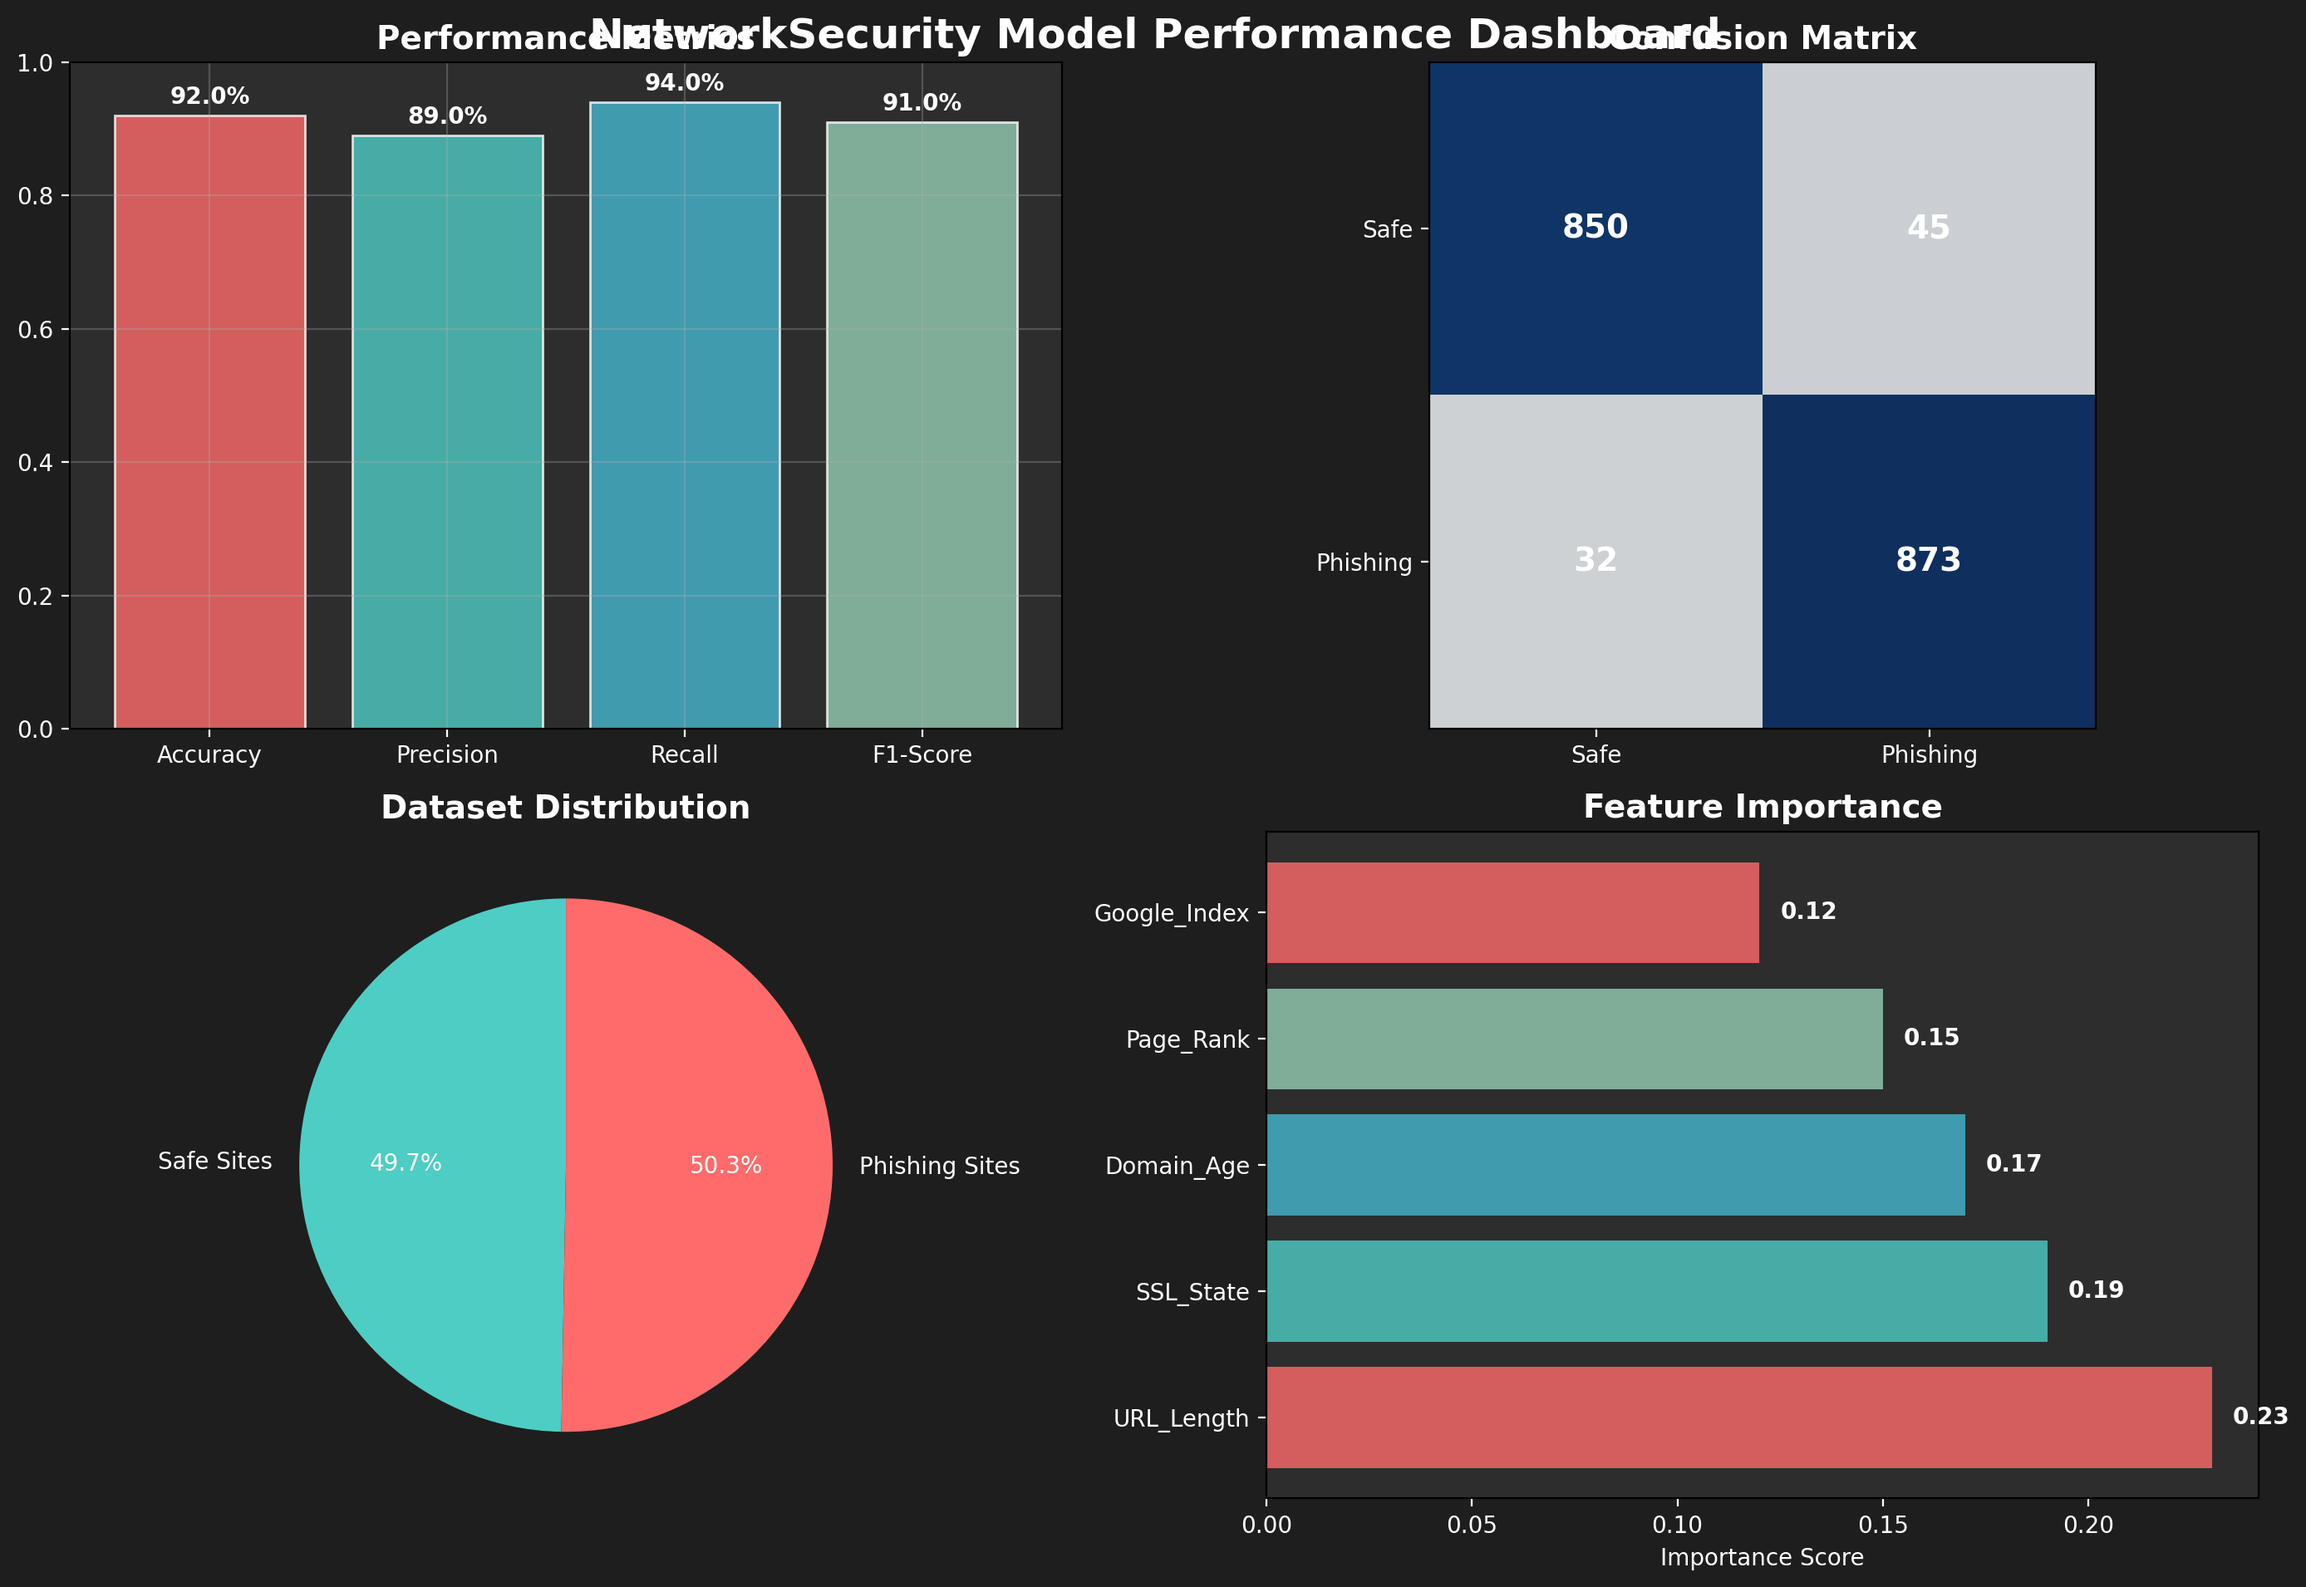
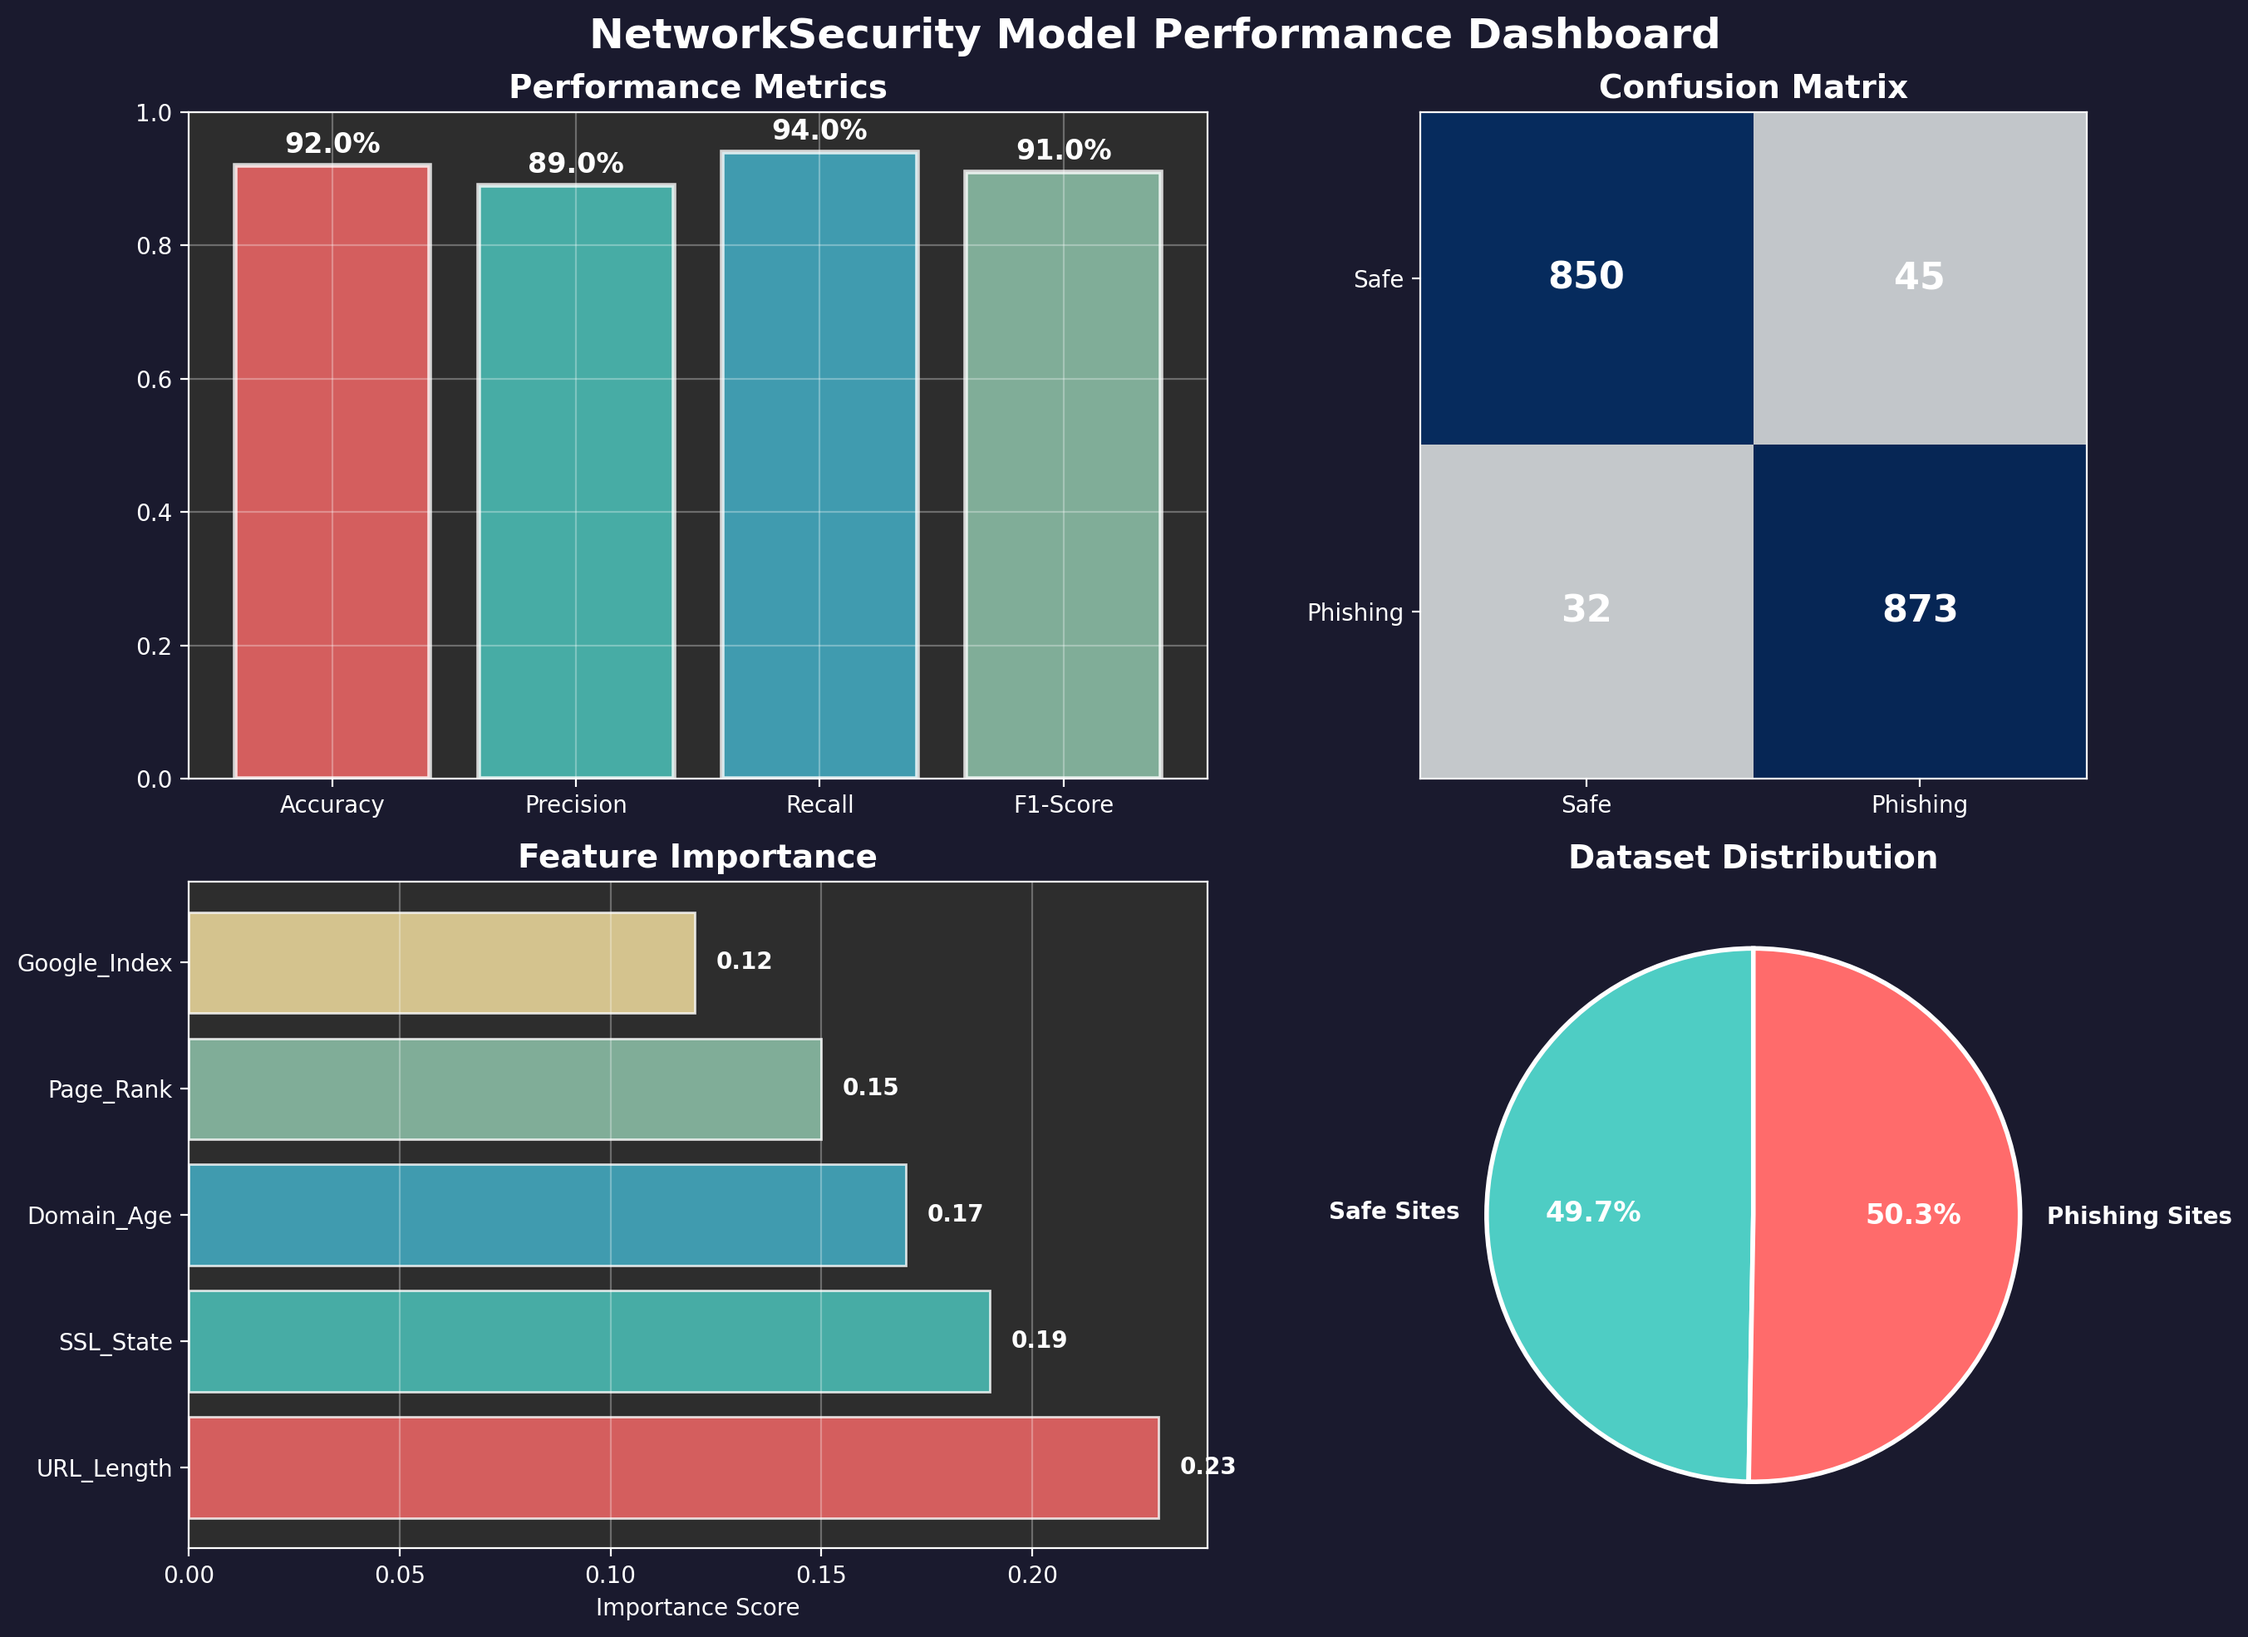
Vis added

diff --git a/visualize_model.py b/visualize_model.py
@@ -8,39 +8,36 @@ import warnings
 warnings.filterwarnings('ignore')
 
 def create_demo_visualization():
-    """Create visually appealing performance visualization"""
+    """Create reliable and visually appealing charts"""
     
     try:
-        # Use a simpler, more compatible style
-        plt.rcParams['figure.facecolor'] = '#1e1e1e'
-        plt.rcParams['axes.facecolor'] = '#2d2d2d'
-        plt.rcParams['text.color'] = 'white'
-        plt.rcParams['axes.labelcolor'] = 'white'
-        plt.rcParams['xtick.color'] = 'white'
-        plt.rcParams['ytick.color'] = 'white'
-        
-        # Sample data
-        metrics = {'Accuracy': 0.92, 'Precision': 0.89, 'Recall': 0.94, 'F1-Score': 0.91}
+        # Set style
+        plt.style.use('dark_background')
         
         # Create figure
-        fig, ((ax1, ax2), (ax3, ax4)) = plt.subplots(2, 2, figsize=(14, 10), facecolor='#1e1e1e')
+        fig, ((ax1, ax2), (ax3, ax4)) = plt.subplots(2, 2, figsize=(14, 10))
+        fig.patch.set_facecolor('#1a1a2e')
         fig.suptitle('NetworkSecurity Model Performance Dashboard', 
-                    fontsize=18, fontweight='bold', color='white', y=0.95)
+                    fontsize=18, fontweight='bold', color='white')
         
         # Colors
-        colors = ['#FF6B6B', '#4ECDC4', '#45B7D1', '#96CEB4']
+        colors = ['#FF6B6B', '#4ECDC4', '#45B7D1', '#96CEB4', '#FFEAA7']
         
-        # 1. Performance Metrics
+        # 1. Performance Metrics Bar Chart
+        metrics = {'Accuracy': 0.92, 'Precision': 0.89, 'Recall': 0.94, 'F1-Score': 0.91}
         bars = ax1.bar(list(metrics.keys()), list(metrics.values()), 
-                      color=colors, alpha=0.8, edgecolor='white', linewidth=1)
+                      color=colors[:4], alpha=0.8, edgecolor='white', linewidth=2)
         
+        # Add value labels
         for bar, value in zip(bars, metrics.values()):
             ax1.text(bar.get_x() + bar.get_width()/2, bar.get_height() + 0.01, 
-                    f'{value:.1%}', ha='center', va='bottom', fontweight='bold', color='white')
+                    f'{value:.1%}', ha='center', va='bottom', fontweight='bold', 
+                    color='white', fontsize=12)
         
-        ax1.set_title('Performance Metrics', fontsize=14, fontweight='bold', color='white')
+        ax1.set_title('Performance Metrics', fontsize=14, fontweight='bold')
         ax1.set_ylim([0, 1])
         ax1.grid(True, alpha=0.3)
+        ax1.set_facecolor('#2d2d2d')
         
         # 2. Confusion Matrix
         cm_data = [[850, 45], [32, 873]]
@@ -49,48 +46,59 @@ def create_demo_visualization():
         # Add text annotations
         for i in range(2):
             for j in range(2):
-                ax2.text(j, i, str(cm_data[i][j]), ha='center', va='center', 
-                        fontsize=14, fontweight='bold', color='white')
+                ax2.text(j, i, str(cm_data[i][j]), ha='center', va='center',
+                        fontsize=16, fontweight='bold', color='white')
         
-        ax2.set_title('Confusion Matrix', fontsize=14, fontweight='bold', color='white')
+        ax2.set_title('Confusion Matrix', fontsize=14, fontweight='bold')
         ax2.set_xticks([0, 1])
         ax2.set_yticks([0, 1])
         ax2.set_xticklabels(['Safe', 'Phishing'])
         ax2.set_yticklabels(['Safe', 'Phishing'])
         
-        # 3. Class Distribution
-        class_counts = [895, 905]
-        class_labels = ['Safe Sites', 'Phishing Sites']
-        colors_pie = ['#4ECDC4', '#FF6B6B']
-        
-        ax3.pie(class_counts, labels=class_labels, colors=colors_pie, 
-               autopct='%1.1f%%', startangle=90)
-        ax3.set_title('Dataset Distribution', fontsize=14, fontweight='bold', color='white')
-        
-        # 4. Feature Importance
+        # 3. Feature Importance
         features = ['URL_Length', 'SSL_State', 'Domain_Age', 'Page_Rank', 'Google_Index']
         importance = [0.23, 0.19, 0.17, 0.15, 0.12]
         
-        y_pos = range(len(features))
-        bars = ax4.barh(y_pos, importance, color=colors[:len(features)], alpha=0.8)
-        
-        ax4.set_yticks(y_pos)
-        ax4.set_yticklabels(features)
-        ax4.set_xlabel('Importance Score', color='white')
-        ax4.set_title('Feature Importance', fontsize=14, fontweight='bold', color='white')
+        bars = ax3.barh(features, importance, color=colors, alpha=0.8, 
+                       edgecolor='white', linewidth=1)
         
         # Add value labels
         for bar, value in zip(bars, importance):
-            ax4.text(value + 0.005, bar.get_y() + bar.get_height()/2, 
+            ax3.text(value + 0.005, bar.get_y() + bar.get_height()/2, 
                     f'{value:.2f}', va='center', fontweight='bold', color='white')
         
+        ax3.set_title('Feature Importance', fontsize=14, fontweight='bold')
+        ax3.set_xlabel('Importance Score')
+        ax3.grid(True, alpha=0.3, axis='x')
+        ax3.set_facecolor('#2d2d2d')
+        
+        # 4. Dataset Distribution Pie Chart
+        sizes = [895, 905]
+        labels = ['Safe Sites', 'Phishing Sites']
+        colors_pie = ['#4ECDC4', '#FF6B6B']
+        
+        wedges, texts, autotexts = ax4.pie(sizes, labels=labels, colors=colors_pie,
+                                          autopct='%1.1f%%', startangle=90,
+                                          wedgeprops=dict(edgecolor='white', linewidth=2))
+        
+        # Style pie chart text
+        for text in texts:
+            text.set_fontweight('bold')
+            text.set_color('white')
+        for autotext in autotexts:
+            autotext.set_fontweight('bold')
+            autotext.set_color('white')
+            autotext.set_fontsize(12)
+        
+        ax4.set_title('Dataset Distribution', fontsize=14, fontweight='bold')
+        
+        # Adjust layout and save
         plt.tight_layout()
         
-        # Save
         os.makedirs('static', exist_ok=True)
         plt.savefig('static/model_performance.png', dpi=200, bbox_inches='tight', 
-                   facecolor='#1e1e1e')
-        print("Visualization saved successfully")
+                   facecolor='#1a1a2e')
+        print("Visualization created successfully")
         
         plt.close()
         return True
